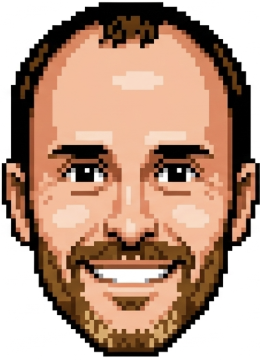
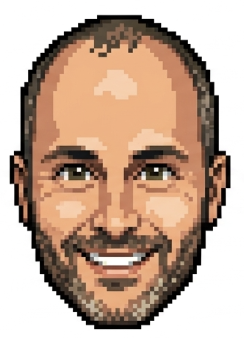
added chat functionality

diff --git a/public/game.js b/public/game.js
@@ -224,6 +224,7 @@ function handleMessage(msg) {
         roundEndDiv.style.display = 'none';
         updateLobbyUI(msg);
       }
+      renderLobbyChat();
       break;
 
     case 'gameStart':
@@ -241,6 +242,7 @@ function handleMessage(msg) {
         gameDiv.classList.remove('spectating');
         startTimer();
       }
+      renderGameChat();
       break;
 
     case 'gameState': {
@@ -289,6 +291,15 @@ function handleMessage(msg) {
     case 'queueUpdate':
       // Still waiting — queue position changed (someone ahead of us left or got promoted)
       updateSpectatorBanner(msg.queuePosition);
+      break;
+
+    case 'chat':
+      chatHistory.push(msg);
+      if (inLobby) {
+        renderLobbyChat();
+      } else {
+        renderGameChat();
+      }
       break;
 
     case 'error':
@@ -926,6 +937,10 @@ const keysDown = {};
 let moveInterval = null;
 
 document.addEventListener('keydown', (e) => {
+  // Don't intercept keypresses when any chat input is focused
+  if (document.activeElement === document.getElementById('game-chat-input') ||
+      document.activeElement === document.getElementById('lobby-chat-input')) return;
+
   if (inLobby) {
     if (e.key === 'Enter' && document.activeElement === nameInput) {
       joinBtn.click();
@@ -1242,6 +1257,88 @@ startBtn.addEventListener('click', () => {
 // Leave Lobby — disconnects and returns to the join screen
 document.getElementById('leaveLobbyBtn').addEventListener('click', () => {
   window.location.reload();
+});
+
+// --- Chat ---
+const chatHistory = [];
+
+function chatMsgHtml(msg) {
+  const avatar = msg.sprite
+    ? `<img class="chat-msg-avatar" src="8%20bit%20originals/${encodeURIComponent(msg.sprite)}" alt="">`
+    : `<div class="chat-msg-avatar-dot" style="background:${msg.color || '#888'}"></div>`;
+  return `<div class="chat-msg">
+    ${avatar}
+    <span class="chat-msg-name" style="color:${msg.color || '#aaa'}">${escapeHtml(msg.name)}:</span>
+    <span class="chat-msg-text">${escapeHtml(msg.text)}</span>
+  </div>`;
+}
+
+function renderLobbyChat() {
+  const container = document.getElementById('lobby-chat-messages');
+  if (!container) return;
+  const wasAtBottom = container.scrollHeight - container.scrollTop - container.clientHeight < 40;
+  container.innerHTML = chatHistory.map(chatMsgHtml).join('');
+  if (wasAtBottom || container.scrollHeight === container.clientHeight) {
+    container.scrollTop = container.scrollHeight;
+  }
+}
+
+function renderGameChat() {
+  const container = document.getElementById('game-chat-messages');
+  if (!container) return;
+  const recent = chatHistory.slice(-5);
+  container.innerHTML = recent.map(chatMsgHtml).join('');
+}
+
+function sendChat(text) {
+  text = (text || '').trim();
+  if (!text || !myId) return;
+  send({ type: 'chat', text });
+}
+
+// Lobby chat input
+const lobbyChatInput = document.getElementById('lobby-chat-input');
+const lobbyChatSend = document.getElementById('lobby-chat-send');
+
+function submitLobbyChat() {
+  if (!lobbyChatInput.value.trim()) return;
+  sendChat(lobbyChatInput.value);
+  lobbyChatInput.value = '';
+}
+
+lobbyChatSend.addEventListener('click', submitLobbyChat);
+lobbyChatInput.addEventListener('keydown', (e) => {
+  if (e.key === 'Enter') { e.preventDefault(); submitLobbyChat(); }
+  e.stopPropagation();
+});
+
+// Game chat
+const gameChatBtn = document.getElementById('game-chat-btn');
+const gameChatInputRow = document.getElementById('game-chat-input-row');
+const gameChatInput = document.getElementById('game-chat-input');
+const gameChatSend = document.getElementById('game-chat-send');
+
+function toggleGameChatInput(forceOpen) {
+  const showing = gameChatInputRow.style.display !== 'none';
+  const open = forceOpen !== undefined ? forceOpen : !showing;
+  gameChatInputRow.style.display = open ? 'flex' : 'none';
+  if (open) gameChatInput.focus();
+}
+
+function submitGameChat() {
+  if (!gameChatInput.value.trim()) return;
+  sendChat(gameChatInput.value);
+  gameChatInput.value = '';
+  toggleGameChatInput(false);
+}
+
+addTapHandler(gameChatBtn, () => toggleGameChatInput());
+addTapHandler(gameChatSend, submitGameChat);
+
+gameChatInput.addEventListener('keydown', (e) => {
+  if (e.key === 'Enter') { e.preventDefault(); submitGameChat(); }
+  if (e.key === 'Escape') { toggleGameChatInput(false); }
+  e.stopPropagation();
 });
 
 // Start render loop

diff --git a/public/style.css b/public/style.css
@@ -8,6 +8,12 @@ html {
   height: 100%;
 }
 
+/* Allow lobby to scroll internally when content is taller than viewport */
+#lobby {
+  overflow-y: auto;
+  max-height: 100vh;
+}
+
 body {
   background: #1a1a2e;
   color: #eee;
@@ -268,6 +274,173 @@ button:active { transform: scale(0.95); }
   color: #eee;
   border: 1px solid #444;
   border-radius: 4px;
+}
+
+/* =====================
+   CHAT
+   ===================== */
+
+/* Lobby chat panel */
+#lobby-chat {
+  display: flex;
+  flex-direction: column;
+  background: #0f0f23;
+  border: 1px solid #333;
+  border-radius: 8px;
+  margin: 12px 0;
+  overflow: hidden;
+  height: 170px;
+  flex-shrink: 0;
+}
+
+#lobby-chat-messages {
+  flex: 1;
+  overflow-y: auto;
+  padding: 8px 10px;
+  display: flex;
+  flex-direction: column;
+  gap: 4px;
+  overscroll-behavior: contain;
+  touch-action: pan-y;
+}
+
+#lobby-chat-input-row {
+  display: flex;
+  gap: 6px;
+  padding: 6px 8px;
+  border-top: 1px solid #222;
+  flex-shrink: 0;
+}
+
+#lobby-chat-input {
+  flex: 1;
+  padding: 6px 10px;
+  font-size: 0.9rem;
+  background: #16213e;
+  color: #eee;
+  border: 1px solid #444;
+  border-radius: 6px;
+  outline: none;
+  min-width: 0;
+}
+
+#lobby-chat-send {
+  padding: 6px 12px;
+  font-size: 0.85rem;
+  background: #ff6b35;
+  color: #fff;
+  border-radius: 6px;
+  white-space: nowrap;
+  flex-shrink: 0;
+}
+
+/* In-game chat overlay — sits above canvas, bottom-left */
+#game-chat-overlay {
+  position: absolute;
+  bottom: 8px;
+  left: 8px;
+  width: min(240px, 55vw);
+  z-index: 10;
+  pointer-events: none;
+  display: flex;
+  flex-direction: column;
+  gap: 4px;
+}
+
+#game-chat-messages {
+  display: flex;
+  flex-direction: column;
+  gap: 3px;
+}
+
+#game-chat-input-row {
+  display: flex;
+  gap: 4px;
+  pointer-events: all;
+}
+
+#game-chat-input {
+  flex: 1;
+  padding: 5px 8px;
+  font-size: 0.8rem;
+  background: rgba(0, 0, 0, 0.75);
+  color: #eee;
+  border: 1px solid rgba(255, 255, 255, 0.3);
+  border-radius: 6px;
+  outline: none;
+  min-width: 0;
+}
+
+#game-chat-send {
+  padding: 5px 8px;
+  font-size: 0.85rem;
+  background: rgba(255, 107, 53, 0.85);
+  color: #fff;
+  border-radius: 6px;
+  pointer-events: all;
+}
+
+#game-chat-btn {
+  align-self: flex-start;
+  width: 28px;
+  height: 28px;
+  padding: 0;
+  font-size: 0.85rem;
+  background: rgba(0, 0, 0, 0.5);
+  color: #fff;
+  border-radius: 50%;
+  border: 1px solid rgba(255, 255, 255, 0.2);
+  pointer-events: all;
+  display: flex;
+  align-items: center;
+  justify-content: center;
+  line-height: 1;
+}
+
+/* Chat message bubble */
+.chat-msg {
+  display: flex;
+  align-items: center;
+  gap: 5px;
+  background: rgba(0, 0, 0, 0.52);
+  border-radius: 5px;
+  padding: 3px 6px;
+  font-size: 0.78rem;
+  line-height: 1.3;
+  word-break: break-word;
+}
+
+.chat-msg-avatar {
+  width: 18px;
+  height: 18px;
+  object-fit: contain;
+  image-rendering: pixelated;
+  border-radius: 2px;
+  flex-shrink: 0;
+}
+
+.chat-msg-avatar-dot {
+  width: 10px;
+  height: 10px;
+  border-radius: 50%;
+  border: 1px solid rgba(255, 255, 255, 0.5);
+  flex-shrink: 0;
+}
+
+.chat-msg-name {
+  font-weight: bold;
+  white-space: nowrap;
+  flex-shrink: 0;
+}
+
+.chat-msg-text {
+  color: #eee;
+  min-width: 0;
+}
+
+/* Lobby chat bubbles get a slightly lighter bg */
+#lobby-chat-messages .chat-msg {
+  background: rgba(255, 255, 255, 0.04);
 }
 
 /* =====================

diff --git a/public/index.html b/public/index.html
@@ -26,6 +26,13 @@
       <h2>Lobby</h2>
       <div id="playerList"></div>
       <div id="waiting-queue" style="display:none;"></div>
+      <div id="lobby-chat">
+        <div id="lobby-chat-messages"></div>
+        <div id="lobby-chat-input-row">
+          <input type="text" id="lobby-chat-input" placeholder="Say something..." maxlength="200" autocomplete="off">
+          <button id="lobby-chat-send">Send</button>
+        </div>
+      </div>
       <div class="lobby-options">
         <label class="lobby-option-row">
           <span class="option-label">Map</span>
@@ -57,6 +64,14 @@
     <!-- Center: header + canvas -->
     <div id="game-main">
       <div id="spectator-banner" style="display:none;"></div>
+      <div id="game-chat-overlay">
+        <div id="game-chat-messages"></div>
+        <div id="game-chat-input-row" style="display:none;">
+          <input type="text" id="game-chat-input" placeholder="Message..." maxlength="200" autocomplete="off">
+          <button id="game-chat-send">↩</button>
+        </div>
+        <button id="game-chat-btn">💬</button>
+      </div>
       <div id="died-overlay" style="display:none;">
         <div id="died-msg">😎 You died!</div>
         <div id="died-winner"></div>

diff --git a/server.js b/server.js
@@ -900,6 +900,24 @@ wss.on('connection', (ws) => {
       broadcastLobbyState();
     }
 
+    if (msg.type === 'chat' && playerId) {
+      const sender = players[playerId] || waitingPlayers[playerId];
+      if (sender) {
+        const text = String(msg.text || '').trim().slice(0, 200);
+        if (text) {
+          broadcast({
+            type: 'chat',
+            playerId,
+            name: sender.name,
+            sprite: sender.sprite || null,
+            color: sender.color || '#888',
+            text,
+            ts: Date.now()
+          });
+        }
+      }
+    }
+
     // In-game inputs
     if (msg.type === 'input' && playerId && players[playerId] && !lobby) {
       const p = players[playerId];
